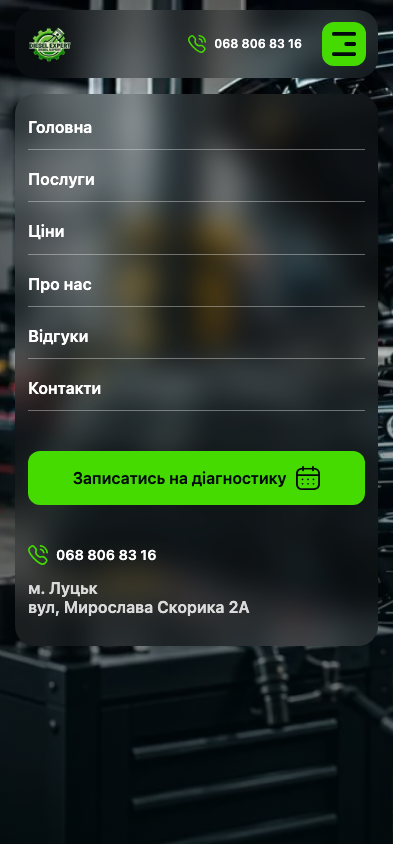
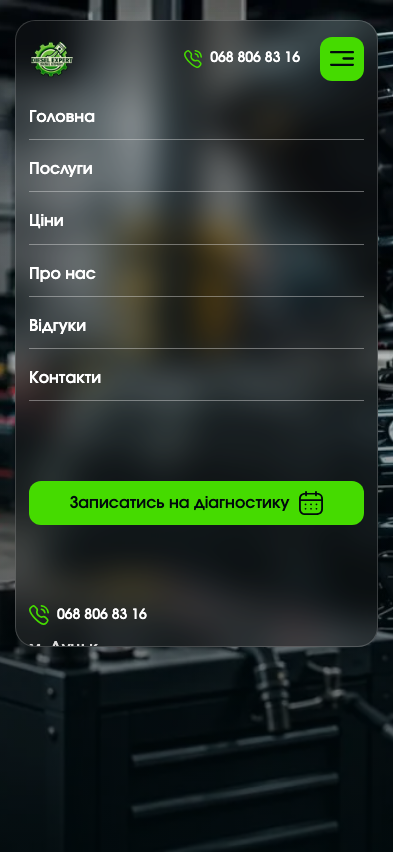
fix(hero): desk height 1020 for Figma rhythm; refresh screens
Hero 1440 → 1020px so advantages@1020 and promo@4162 match raw desk.
Playwright screens + docs/screens/compare/ (figma vs ours).

diff --git a/static/css/hero.css b/static/css/hero.css
@@ -138,9 +138,11 @@
 
 @media (min-width: 1280px) {
   .hero {
-    min-height: 900px;
-    padding-top: 268px;
-    padding-bottom: 28px;
+    min-height: 1020px;
+    height: 1020px;
+    padding-top: 295px;
+    padding-bottom: 40px;
+    box-sizing: border-box;
   }
 
   .hero__content {

diff --git a/docs/screens/README.md b/docs/screens/README.md
@@ -1,11 +1,15 @@
 # Скріни головної
 
-Знято з локального `runserver` (Playwright, Chrome). `home-*` — повна сторінка.
+Знято з локального `runserver :8791` (Playwright Chromium) після Involve woff2 + Design Lead / Anna 1:1 фіксів.
 
-Оновлено після `354107d` (графік у футері «ПН–НД 9:00–20:00», без карти).
+- `home-1440.png` / `home-768.png` / `home-393.png` / `home-320.png` — повна сторінка
+- `menu-open-393.png` — мобільне меню (одна картка 363×627)
+- `modal-booking-1440.png` / `modal-booking-393.png` — модалка запису
 
-- `home-1440.png` — desktop 1440
-- `home-768.png` — tablet 768
-- `home-393.png` — mobile 393
-- `menu-open-393.png` — відкрите мобільне меню
-- `modal-booking-1440.png` — модалка запису
+## compare/
+
+Попарні докази макет|сайт (`docs/screens/compare/`):
+- `hero-1440-figma.png` — еталон Анни (`docs/anna-review/1_figma.png`)
+- `hero-1440-ours.png` / `hero-393-ours.png` — наш hero після фіксів
+- `hero-1440-ours-before.png` — скрін Анни «було» (`2_ours.png`)
+- `menu-open-393-ours.png`, `modal-booking-*-ours.png`
